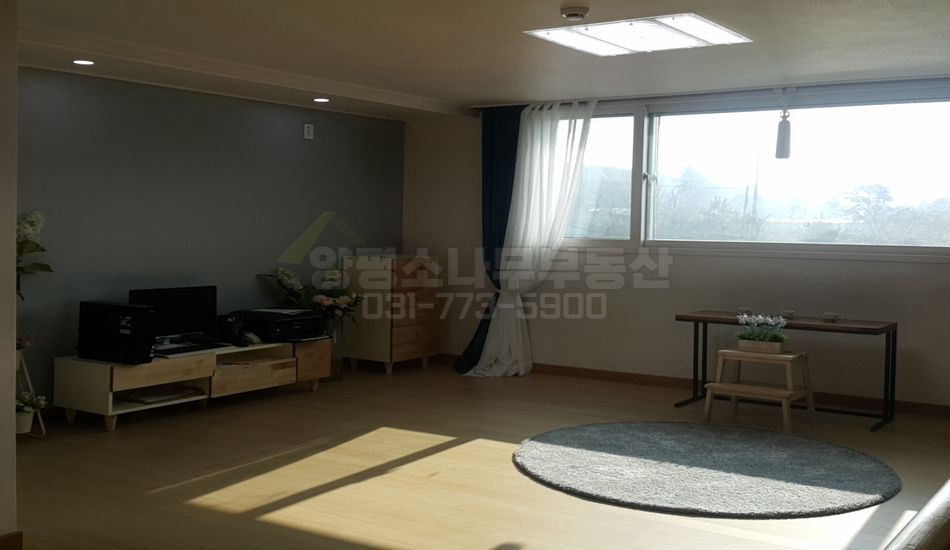
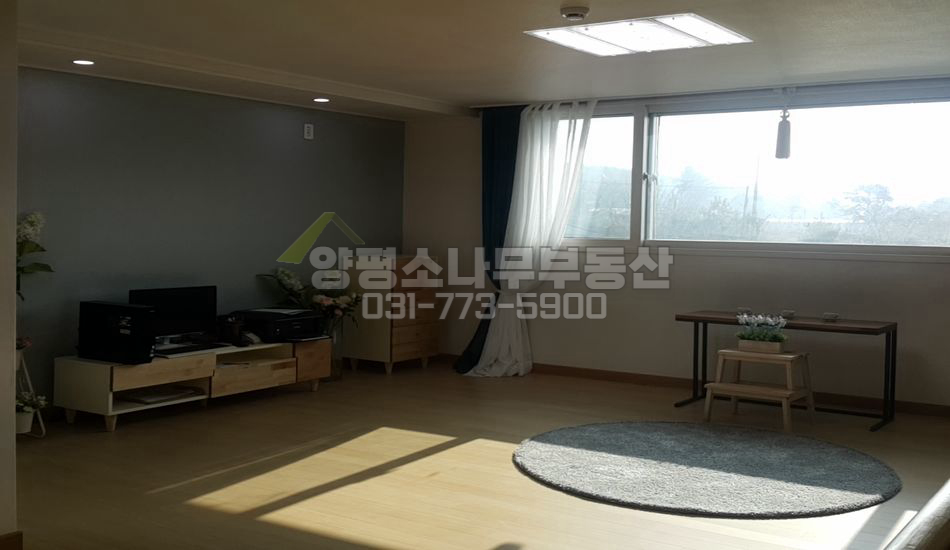
d

Changed region(s): [[0.3053, 0.4327, 0.7021, 0.5873]]

diff --git a/server/models/manualinput.js b/server/models/manualinput.js
@@ -653,6 +653,7 @@ function trimImagesSync(){
 function watermarkImages(){
 	Item.find().then((data)=>{
 		console.log(data.length + ' items found');
+		console.log(data[0].id);
 		let loopArray = function(x,y){
 			if(x%1===0 && y===0) console.log(x + ' th item');
 			if(x===data.length){
@@ -670,7 +671,7 @@ function watermarkImages(){
 							Jimp.read('../public/images'+data[x].image[y])
 								.then((tpl) =>
 									Jimp.read('../public/assets/watermark.png').then((logoTpl) => {
-										logoTpl.opacity(0.25)
+										logoTpl.opacity(0.8)
 										return tpl.composite(logoTpl, 275, 175, [Jimp.BLEND_DESTINATION_OVER])
 									}),
 								)

diff --git a/server/models/lab.js b/server/models/lab.js
@@ -20,12 +20,12 @@ var Jimp = require('jimp');
 
 let imgActive = 'tmp.jpg';
 
-Jimp.read('15ed55587a2a0f15140dd006f169e25a')
+Jimp.read('test.jpg')
       .then((tpl) =>
           Jimp.read('../public/assets/watermark.png').then((logoTpl) => {
-              logoTpl.opacity(0.25)
+              logoTpl.opacity(0.4)
               return tpl.composite(logoTpl, 275, 175, [Jimp.BLEND_DESTINATION_OVER])
           }),
       )
-      .then((tpl) => tpl.write('15ed55587a2a0f15140dd006f169e25a'))
+      .then((tpl) => tpl.write('watermark.png'))
       .then(()=>{console.log('1')});
